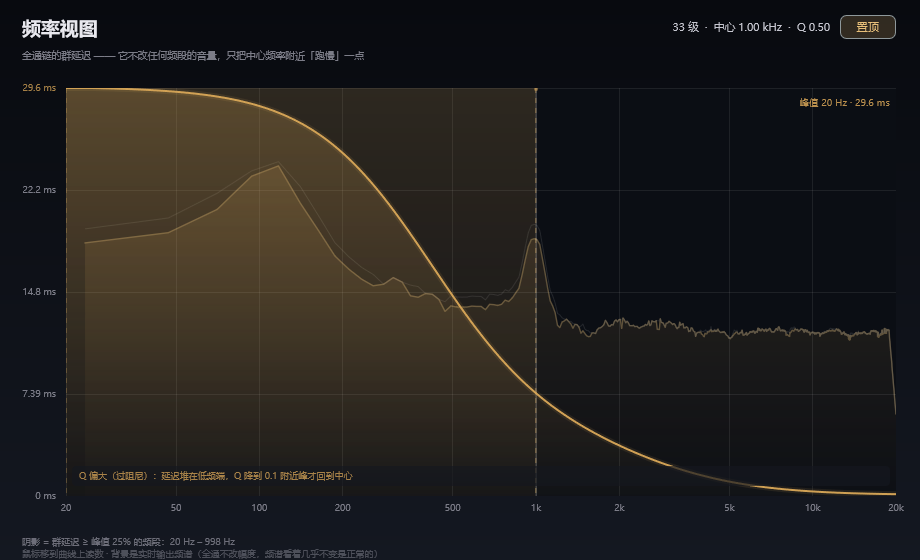
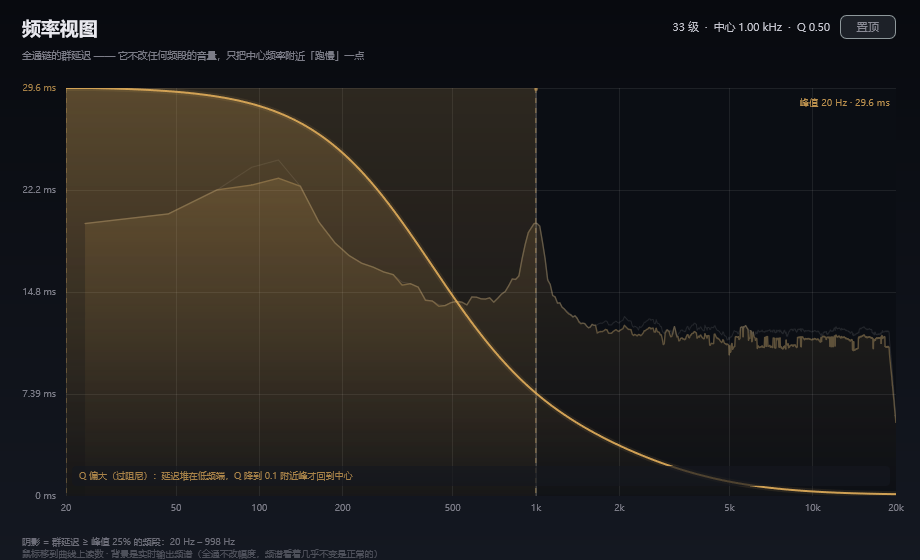
Prism v1.1.2 - frequency view follows the plugin window
- Drop the global always-on-top window: it covered FL Studio's 'save changes?' dialog, which then could not be clicked.
- The frequency view is now an owned window of the plugin's host top-level window (Windows GWLP_HWNDPARENT): it floats above the plugin window, hides with it, and stays below host dialogs.
- The 置顶 button is now opt-in and defaults to off.
- Editor hides the view when the editor itself is hidden.

diff --git a/Source/FrequencyView.cpp b/Source/FrequencyView.cpp
@@ -5,6 +5,13 @@
 #include <cmath>
 #include <algorithm>
 
+#if JUCE_WINDOWS
+ #ifndef NOMINMAX
+  #define NOMINMAX
+ #endif
+ #include <windows.h>
+#endif
+
 namespace
 {
     const juce::Colour accentColour  (0xFFD8A657);
@@ -283,11 +290,11 @@ FrequencyViewComponent::FrequencyViewComponent (PrismProcessor& processorToUse)
     spectrum.setAlpha (0.38f);
     addAndMakeVisible (spectrum);
 
-    // 置顶开关：默认开。关掉之后点回宿主，这个窗口就会排到 FX 窗口后面
+    // 置顶开关：默认关。关掉时窗口跟着插件窗口走（owner 关系），不会盖住宿主的对话框
     pinButton.setButtonText (juce::String::fromUTF8 ("置顶"));
     pinButton.setComponentID ("prismFreqViewPin");
     pinButton.setClickingTogglesState (true);
-    pinButton.setToggleState (true, juce::dontSendNotification);
+    pinButton.setToggleState (false, juce::dontSendNotification);
     pinButton.setColour (juce::TextButton::buttonColourId,   juce::Colour (0xFF1C2028));
     pinButton.setColour (juce::TextButton::buttonOnColourId, juce::Colour (0x33D8A657));
     pinButton.setColour (juce::TextButton::textColourOffId,  juce::Colour (0xFF8A8B96));
@@ -555,12 +562,40 @@ FrequencyViewWindow::FrequencyViewWindow (PrismProcessor& processorToUse)
     setResizable (true, false);
     setResizeLimits (560, 380, 2000, 1400);
 
-    // 默认置顶：否则点回宿主 FX 窗口，这个窗口会被盖到后面去（看起来像被关掉了）
-    setAlwaysOnTop (true);
+    // 不用全局置顶：那会盖住 FL / REAPER 自己的确认对话框，点到都点不着。
+    // 改成"宿主插件窗口的附属窗口"（见 setHostWindow），行为跟插件窗口一致。
 
     viewComponent = new FrequencyViewComponent (processorToUse);
     setContentOwned (viewComponent, true);
 
     centreWithSize (920, 560);
     setVisible (true);
+}
+
+//==============================================================================
+void FrequencyViewWindow::setHostWindow (juce::Component& hostComponent)
+{
+   #if JUCE_WINDOWS
+    auto* myPeer = getPeer();
+    auto* hostPeer = hostComponent.getPeer();
+
+    if (myPeer == nullptr || hostPeer == nullptr)
+        return;
+
+    auto myHwnd   = (HWND) myPeer->getNativeHandle();
+    auto hostHwnd = (HWND) hostPeer->getNativeHandle();
+
+    if (myHwnd == nullptr || hostHwnd == nullptr)
+        return;
+
+    // 插件编辑器在宿主里往往是个子窗口，owner 必须是顶层窗口
+    HWND owner = GetAncestor (hostHwnd, GA_ROOT);
+
+    if (owner == nullptr || owner == myHwnd)
+        owner = hostHwnd;
+
+    SetWindowLongPtr (myHwnd, GWLP_HWNDPARENT, (LONG_PTR) owner);
+   #else
+    juce::ignoreUnused (hostComponent);
+   #endif
 }

diff --git a/Source/AboutOverlay.cpp b/Source/AboutOverlay.cpp
@@ -47,7 +47,7 @@ void AboutOverlay::paint (juce::Graphics& g)
 
     g.setColour (juce::Colour (0xFF8A8B96));
     g.setFont (juce::Font (juce::FontOptions ("Microsoft YaHei UI", 14.0f, juce::Font::plain)));
-    g.drawText (juce::String::fromUTF8 ("PRISM  ·  ALL-PASS DISPERSION  ·  v1.1.1"),
+    g.drawText (juce::String::fromUTF8 ("PRISM  ·  ALL-PASS DISPERSION  ·  v1.1.2"),
                 juce::Rectangle<float> (128.0f, 18.0f, 300.0f, 22.0f),
                 juce::Justification::centredLeft);
 
@@ -72,7 +72,7 @@ void AboutOverlay::paint (juce::Graphics& g)
                           "右上角「总开关」旁通：射线会收回棱镜\n"
                           "右上角「频率视图」：另开窗口看群延迟分布\n"
                           "\n"
-                          "Yunshu_TSK　·　v1.1.1　·　2026　·　GPLv3 开源\n"
+                          "Yunshu_TSK　·　v1.1.2　·　2026　·　GPLv3 开源\n"
                           "space.bilibili.com/1394063758\n"
                           "100% DeepSeek 4.1 Flash 制作\n"
                           "DSP 参考 AllPassPhase by enummusic（按算法重写，未使用其代码）\n"

diff --git a/Source/PrismEditor.cpp b/Source/PrismEditor.cpp
@@ -202,6 +202,10 @@ void PrismEditor::toggleFrequencyView()
     if (frequencyWindow == nullptr)
     {
         frequencyWindow = std::make_unique<FrequencyViewWindow> (processor);
+
+        // 挂到宿主插件窗口上：跟着它显示/隐藏，但不会盖住宿主的对话框
+        frequencyWindow->setHostWindow (*this);
+
         frequencyWindow->toFront (true);
 
         PrismLog ("--- frequency view opened ---");
@@ -345,6 +349,14 @@ void PrismEditor::resized()
         drawerKnobs[(size_t) i]->slider.setBounds (x, drawerKnobTop + 20, drawerKnobSize, drawerKnobSize);
         drawerKnobs[(size_t) i]->valueLabel.setBounds (x - 40, drawerKnobTop + 80, drawerKnobSize + 80, 22);
     }
+}
+
+//==============================================================================
+void PrismEditor::visibilityChanged()
+{
+    // 宿主把插件窗口藏起来 / 切到别的插件时，别让频率视图还孤零零挂在桌面上
+    if (frequencyWindow != nullptr && ! isVisible())
+        frequencyWindow->setVisible (false);
 }
 
 //==============================================================================

diff --git a/Source/FrequencyView.h b/Source/FrequencyView.h
@@ -79,6 +79,10 @@ class FrequencyViewWindow final : public juce::DocumentWindow
 public:
     explicit FrequencyViewWindow (PrismProcessor& processorToUse);
 
+    // 把这个窗口挂成宿主插件窗口的附属窗口（Windows：owner 关系）。
+    // 效果：跟着插件窗口一起显示/隐藏，盖在插件窗口上面，但不会盖住宿主的对话框。
+    void setHostWindow (juce::Component& hostComponent);
+
     void closeButtonPressed() override { setVisible (false); }
 
     FrequencyViewComponent& view() noexcept { return *viewComponent; }

diff --git a/Source/PrismEditor.h b/Source/PrismEditor.h
@@ -23,6 +23,7 @@ public:
 
     void paint (juce::Graphics&) override;
     void resized() override;
+    void visibilityChanged() override;
 
     // 设计坐标系的画布：背景在这上面画，所有子控件也都挂在它下面
     void paintCanvas (juce::Graphics&);

diff --git a/README.md b/README.md
@@ -42,7 +42,9 @@ Q 降到 0.1 附近才会在中心频率处重新出现那个尖峰。默认 Q=0
 能被听见的后果就是群延迟。演示时想让观众"看见"色散，看这张图比看频谱直观得多。
 
 窗口跟编辑器的寿命绑定：点 ✕ 只是隐藏，编辑器关掉时一起销毁；缩放窗口时坐标轴和字跟着走。
-窗口**默认置顶**（右上角「置顶」可以关掉）—— 否则点回效果器时，它会被宿主的 FX 窗口盖住。
+窗口是**插件窗口的附属窗口**（Windows owner 关系）：跟着插件窗口显示/隐藏，盖在插件窗口上面，
+但**不会盖住宿主自己的对话框**（FL 关工程时的「是否保存」就不会被挡住）。右上角「置顶」可以
+手动改成全局置顶，默认关闭。
 
 Q=0.5（默认）时它是这个样子的 —— 群延迟峰不在 1 kHz，而在最左边的低频端：
 
